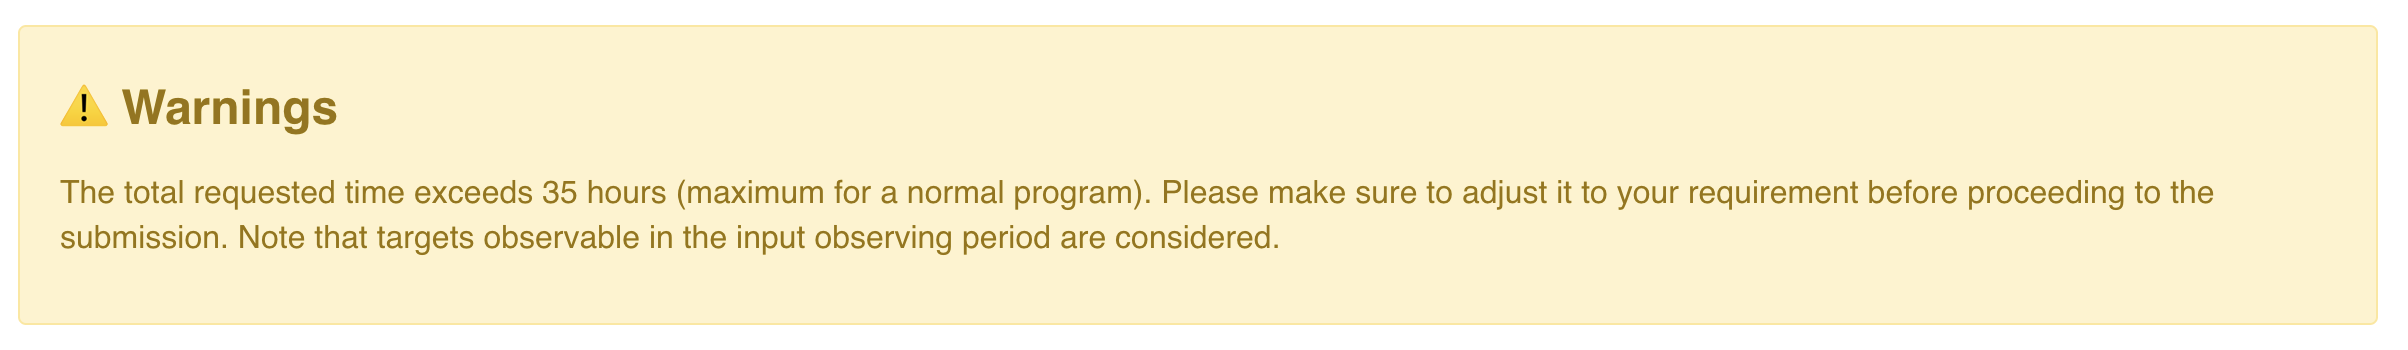
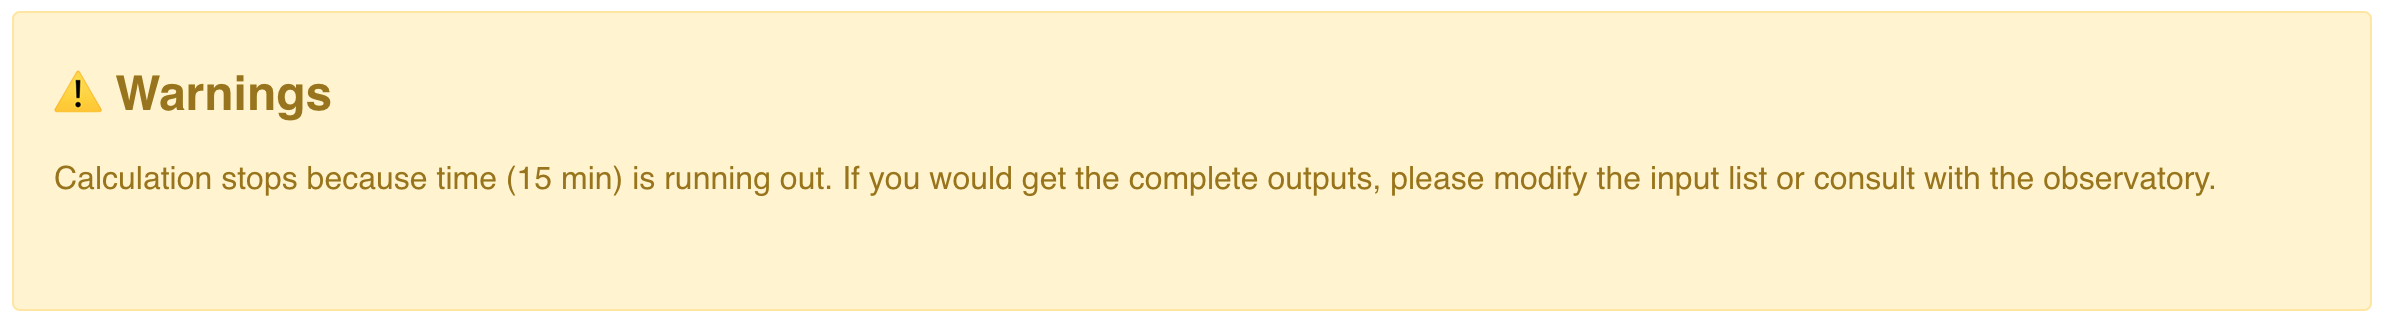
update with He-san

Changed region(s): [[0.0, 0.0307, 1.0, 0.9509]]

diff --git a/docs/docs/PPP.md b/docs/docs/PPP.md
@@ -2,7 +2,8 @@
 
 The total exposure time required for an uploaded target list is estimated using the online PFS Pointing Planner (PPP).
 
-The online PPP will carry out the following after the validation of the input target list
+The online PPP will simulate the pointing after the validation of the input target list.
+The procedure is briefly listed below:
 
 1. Create a weight map on the sky for the input objects by using coordinates and priorities.
 2. Pick a density peak with the highest weight and assign PFS fibers using [the netflow algorithm](https://github.com/Subaru-PFS/ets_fiberalloc/).
@@ -28,13 +29,15 @@ The online PPP will give a status report of the outputs.
 !!! warning "Warnings are raised in the following cases:"
 
     - The total requested time exceeds the 5-night upper limit for the normal program.
-    - The online PPP stops due to the running out of time.
+    - The running time exceeds 15 minutes.
 
 #### Examples of status
 
 <figure markdown>
+  ![Status indicators](images/ppp_warning_35h.png){ width="1000" }
   ![Status indicators](images/ppp_warning_exetime.png){ width="1000" }
-  <figcaption>A warning to indicate that the total time to complete all targets is estimated to exceed 5 nights (35 on-source hours).</figcaption>
+  <figcaption>(Top) A warning to indicate that the total time to complete all targets is estimated to exceed 5 nights (35 on-source hours).</figcaption>
+  <figcaption>(Bottom) A warning to indicate that the running time exceeds 15 minutes.</figcaption>
 </figure>
 
 <figure markdown>
@@ -72,10 +75,10 @@ A table including the following information will be displayed, and its contents 
 | Fiber usage fraction | %         | Average fiber usage fraction of pointings                                                                          |
 | Fraction of PPC <30% | %         | Fration of pointings having the fiber usage fraction < 30%                                                         |
 | P_all                | %         | Completion rate of the entire program                                                                              |
-| P_[1-9]              | %         | Completion rate of each priority group                                                                             |
+| P_[0-9]              | %         | Completion rate of each priority group                                                                             |
 
 - If only one resolution mode (low or medium) is used, the table will only show information in that mode.
-- If both modes are required, a third row `total` will be displayed.
+- The completion rates are estimated by `N(tgt_complete)/N(tgt)`, where `N(tgt_complete)` means the number count of targets with the requested exposure time __fully__ finished.
 
 ### Interactive plots of the results
 
